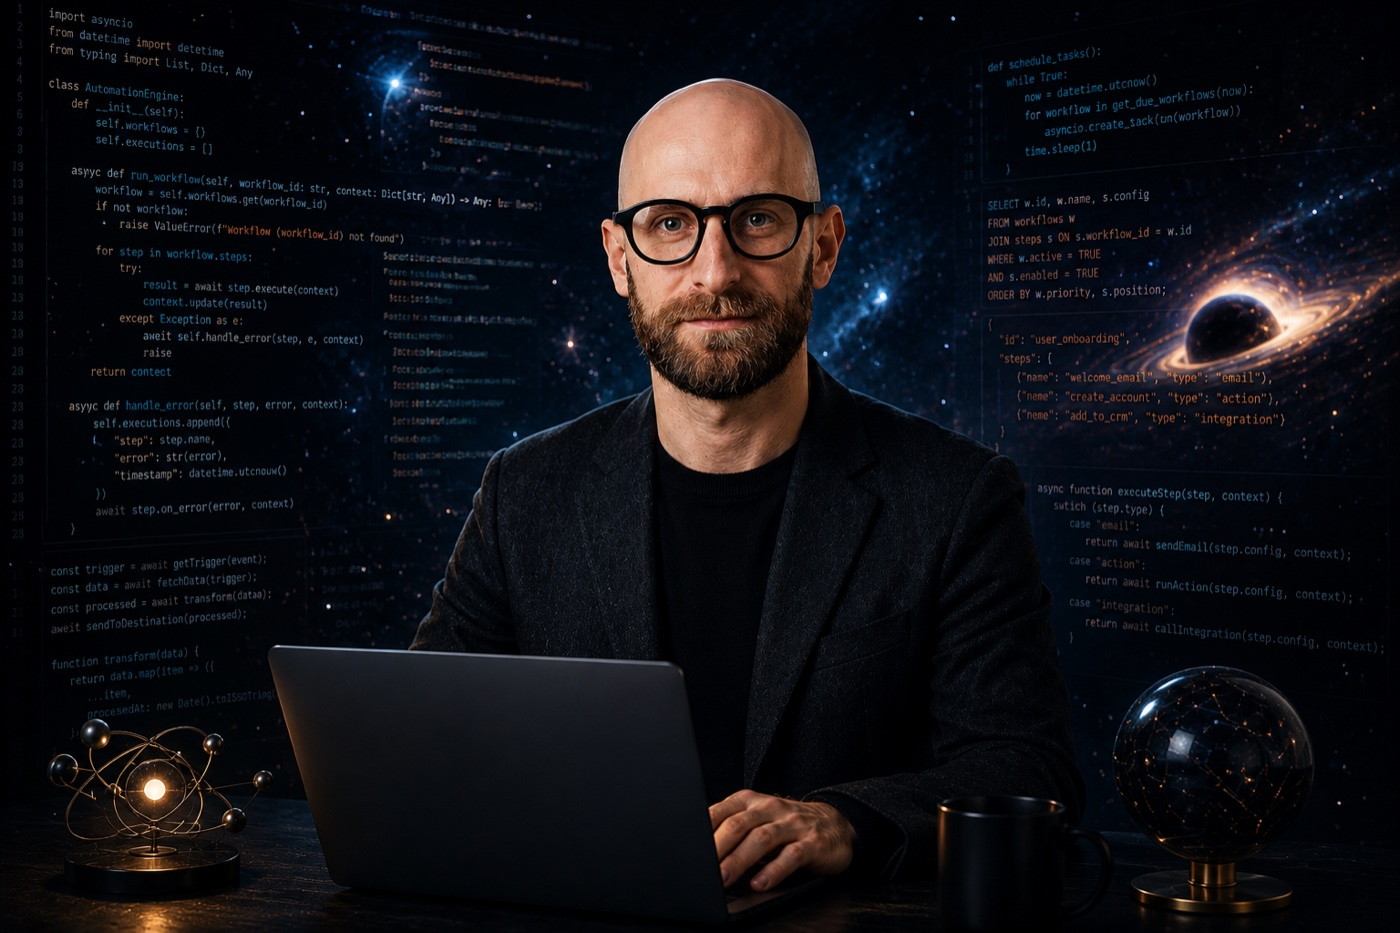
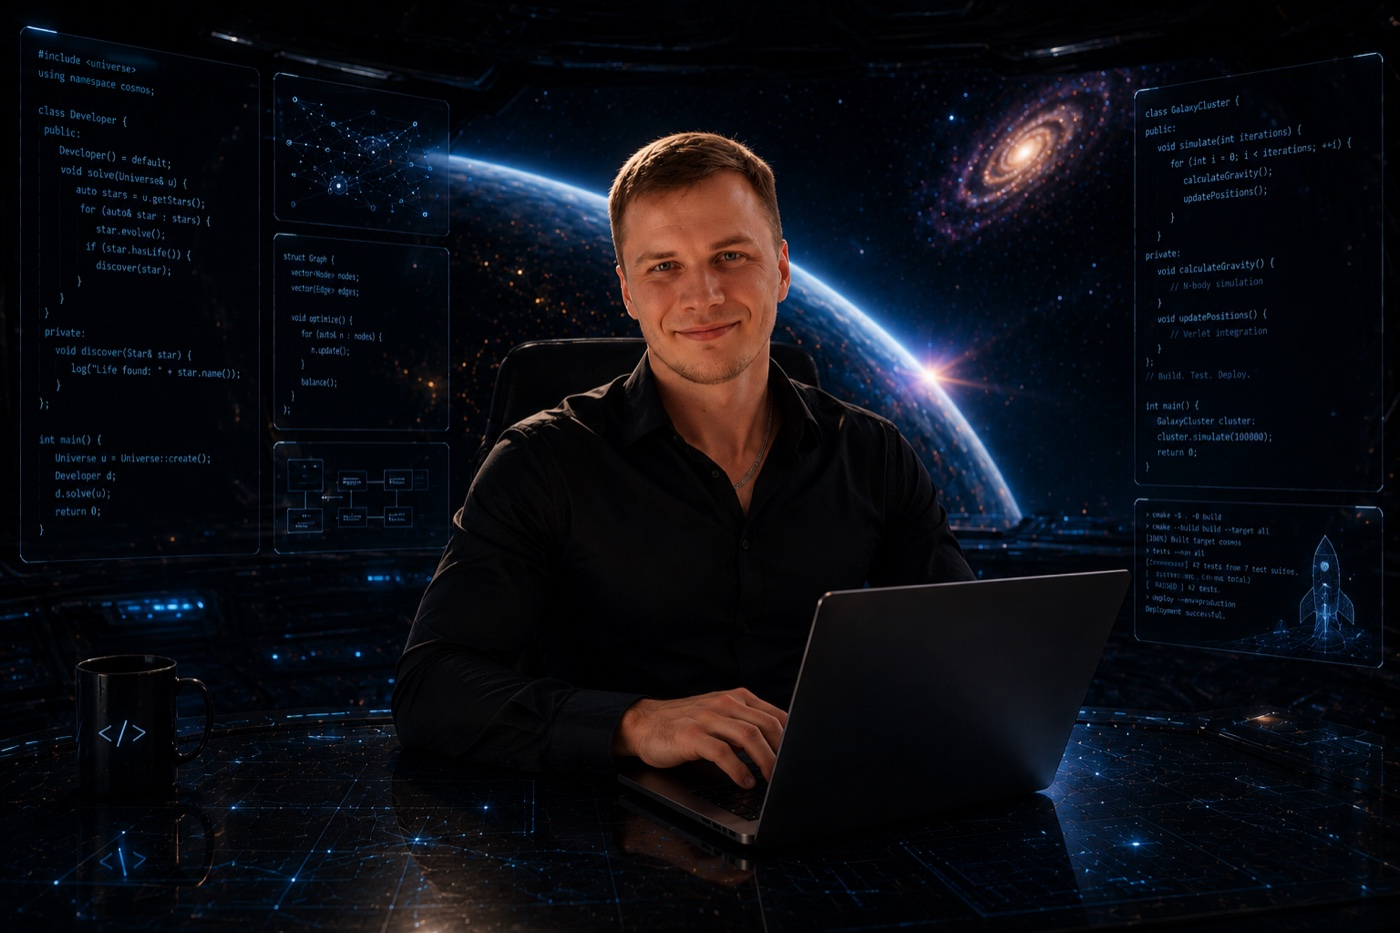
fix(team): rename Michael Pavlov → Mikhail Pautov + replace photo
Per Katia. Photo source: ~/Desktop/95EC6D43-6F78-4AF8-9FD0-3EB2EF73D6FF.PNG (1536×1024), converted to JPG and saved at public/team/michael.jpg (file name kept the same to avoid path churn — only the display name and the image bytes changed).

diff --git a/src/App.tsx b/src/App.tsx
@@ -5462,7 +5462,7 @@ const TeamSection = () => {
       ]
     },
     {
-      name: "Michael Pavlov",
+      name: "Mikhail Pautov",
       role: "Lead Platform Engineer",
       oldRole: "Software Engineer",
       img: "/team/michael.jpg",